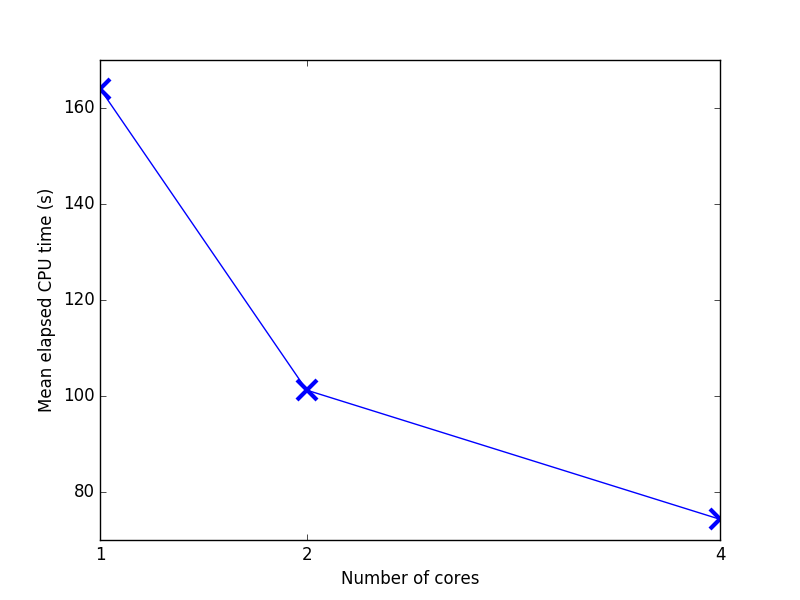
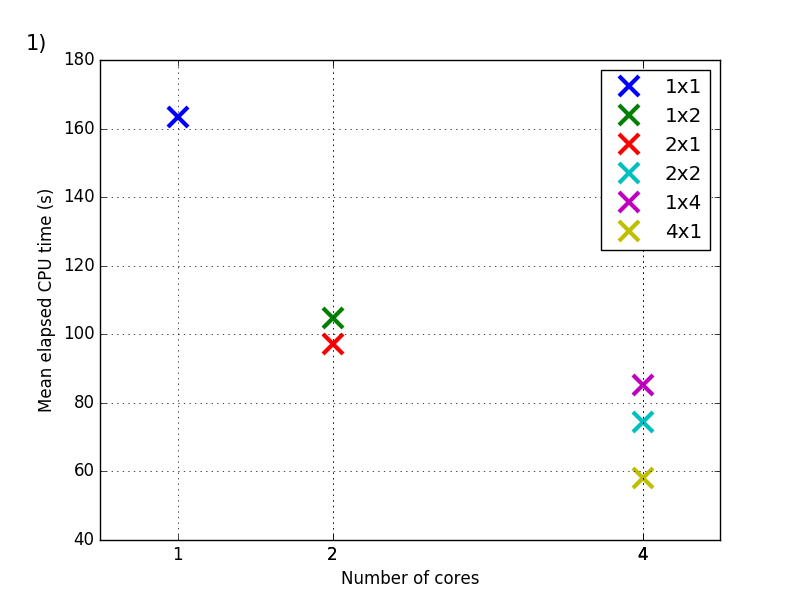
update figure 1

diff --git a/postprocess/scaling.py b/postprocess/scaling.py
@@ -6,35 +6,59 @@
 import os as os
 import numpy as np
 import matplotlib
-import matplotlib.pyplot as plt
 matplotlib.use('Agg')
+import matplotlib.pyplot as plt
 
 START = 1
 STOP = 6
 
 # mean elapsed time
-met = np.zeros(STOP-START)
+met = np.zeros(STOP-START+1)
 # number of processors/cores
-nproc = np.zeros(STOP-START, dtype=int)
+nproc = np.zeros(STOP-START+1, dtype=int)
+ntilei = np.zeros(STOP-START+1, dtype=int)
+ntilej = np.zeros(STOP-START+1, dtype=int)
 
-for ii in range(START, STOP):
-    cmdstr = '''grep "Node   #" ../experiments/exp%03d/run_sge.sh.* |
-         awk \'{print $5}\' >./.tmp'''
-    os.system(cmdstr % (ii))
-    file = open('./.tmp', 'r')
+def readarray(fname):
+    """Read newline separated values from file into numpy array"""
+    file = open(fname, 'r')
     n = file.read()
-    a = np.fromstring(n, sep='\n')
+    return np.fromstring(n, sep='\n')
+
+for ii in range(START, STOP+1):
+    cmdstr = ('grep "NtileI =" ../experiments/exp%03d/ocean_benchmark1.in |'
+              'awk \'{print $3}\' >./.tmp')
+    os.system(cmdstr % (ii))
+    ntilei[ii-1] = readarray('.tmp')
+    cmdstr = ('grep "NtileJ =" ../experiments/exp%03d/ocean_benchmark1.in |'
+              'awk \'{print $3}\' >./.tmp')
+    os.system(cmdstr % (ii))
+    ntilej[ii-1] = readarray('.tmp')
+
+    cmdstr = '''grep "Node   #" ../experiments/exp%03d/out/exp%03d.o* |awk \'{print $5}\' >./.tmp'''
+    # print(cmdstr % (ii, ii))
+    os.system(cmdstr % (ii, ii))
+    a = readarray('.tmp')
     met[ii-1] = np.mean(a)
     nproc[ii-1] = a.size
-    print(n)
-    print("")
+
+
+myx = 'x'*(STOP-START+1)
+z = list(zip(ntilei, myx, ntilej))
+labels = [''.join(str(x) for x in z[jj]) for jj in range(STOP-START+1)]
+print(labels)
 
 fig = plt.figure()
 ax = fig.add_subplot(111)
 ax.xaxis.set_major_formatter(matplotlib.ticker.FormatStrFormatter('%d'))
-ax.plot(nproc, met)
-ax.plot(nproc, met, 'xb', markersize=15, markeredgewidth=3)
+# ax.plot(nproc, met)
+for i, j in zip(nproc, met):
+    ax.plot(i, j, 'x', markersize=15, markeredgewidth=3)
+ax.legend(labels, numpoints=1)
+ax.text(-0.12, 1.02, '1)', fontsize=15, transform=ax.transAxes)
 plt.xticks(nproc)
+plt.xlim(np.min(nproc)-0.5, np.max(nproc)+0.5)
 plt.xlabel('Number of cores')
 plt.ylabel('Mean elapsed CPU time (s)')
+plt.grid()
 fig.savefig('figures/met.png')

diff --git a/README.md b/README.md
@@ -17,6 +17,6 @@ The long-term goal is to produce configuration tools which are portable between 
 
 <img src="postprocess/figures/met.png" width="50%">
 
-Mean elapsed CPU time for the ROMS "small" benchmark test (benchmark1.in), as function of the number of cores. Computations are performed on t2.micro instances of AWS, which have one core ("vCPU") per node. The tiling was 1x1, 2x1 and 2x2 for the 1-,2- and 4-core simulation, respectively. The tiling chosen for the 4-core simulation is presumably not optimal, given that the domain of the "small" benchmark test is 512x64 points, and thus is much larger in i- than in j-direction (indicating a 4x1 tiling may be preferable).
+Figure 1: CPU time per compute node for the ROMS "small" benchmark test (benchmark1.in), as function of the number of cores. Computations are performed on t2.micro instances of AWS, which have one core ("vCPU") per node (as of 2016/11/01). Each data point shows the average time of all nodes, measured from one single experiment. The inset shows the domain partition (tiling) of the 512x64 point domain. The result indicates that "square-like" partitions yield better performance, and slightly nonlinear scaling.
 
 
